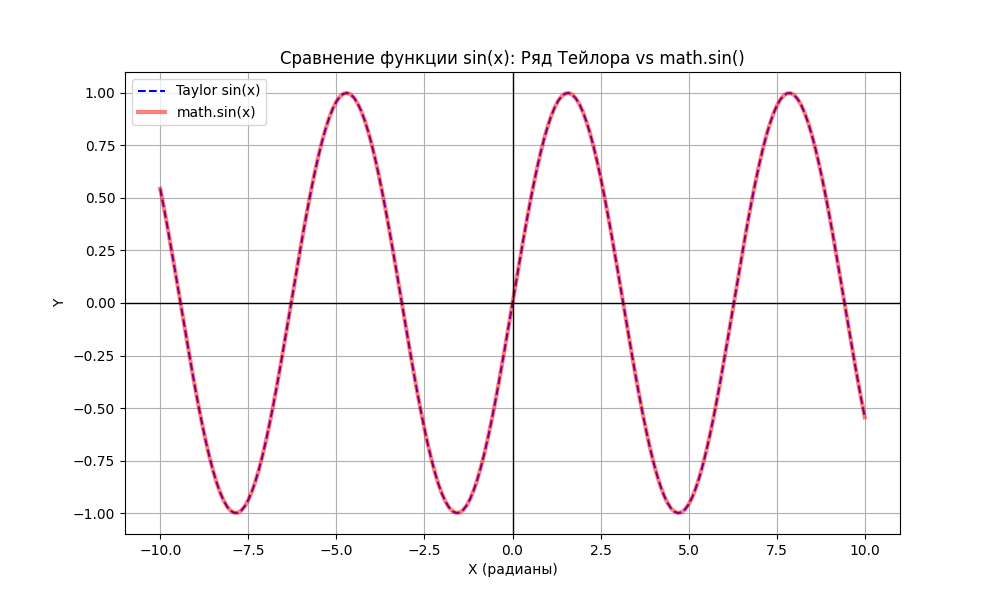
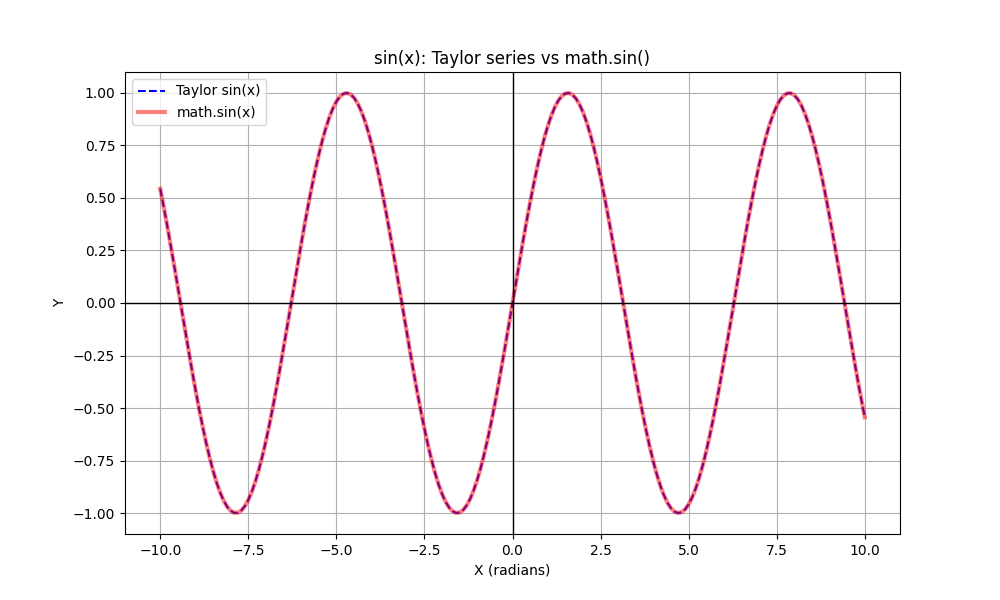
Task4

Changed region(s): [[0.279, 0.09, 0.744, 0.12], [0.465, 0.93, 0.558, 0.96]]

diff --git a/IGI/LR4/task4/geometry.py b/IGI/LR4/task4/geometry.py
@@ -1,0 +1,119 @@
+from abc import ABC, abstractmethod
+import math
+import matplotlib.pyplot as plt
+import matplotlib.patches as patches
+
+class GeometricFigure(ABC):
+    """
+    Abstract base class representing a geometric figure
+    Requires child classes to implement area calculation and drawing methods
+    """
+
+    @abstractmethod
+    def get_area(self):
+        """
+        Calculates and returns the area of the geometric figure
+        """
+        pass
+
+    @abstractmethod
+    def draw(self, label):
+        """
+        Draws the geometric figure on the screen
+        """
+        pass
+
+class ShapeColor:
+    """
+    Class representing the color of a figure
+    """
+
+    def __init__(self, color):
+        """
+        Initializes the ShapeColor
+        :param color
+        """
+        self._color = color
+
+    @property
+    def color(self):
+        """
+        Getter for the color property
+        :return: Color string
+        """
+        return self._color
+
+
+class InscribedSquare(GeometricFigure):
+    """
+    Class representing a square inscribed in a circle
+    """
+
+    figure_name = "Square inscribed in a circle"
+
+    def __init__(self, r, color):
+        """
+        Initializes the inscribed square
+        :param r: Radius
+        :param color: Color of the square.\
+        """
+        self._color = ShapeColor(color)
+        self._radius = r
+
+    def get_area(self):
+        """
+        Calculates the area of the inscribed square
+        :return: Area of the square.\
+        """
+        return 2 * self._radius * self._radius
+
+    def __str__(self):
+        """
+        Returns a formatted string representation of the object
+        :return: Formatted string with radius, color, and area
+        """
+        return "Inscribed Square (Radius: {}, Color: {}, Area: {})".format(
+            self._radius,
+            self._color.color,
+            self.get_area()
+        )
+
+    @classmethod
+    def get_name(cls):
+        """
+        Class method to get the name of the geometric figure
+        :return: Name of the figure.
+        """
+        return cls.figure_name
+
+    def draw(self, label):
+        """
+        Draws
+        :param label: Text label to display in the center of the figure.\
+        """
+        print(f"\n[Drawing figure: {self.get_name()}...]")
+        fig, ax = plt.subplots(figsize=(6, 6))
+
+        circle = plt.Circle((0, 0), self._radius, fill=False, edgecolor='black', linewidth=2)
+        ax.add_patch(circle)
+
+        side = self._radius * math.sqrt(2)
+        bottom_left_x = -side / 2
+        bottom_left_y = -side / 2
+
+        square = patches.Rectangle((bottom_left_x, bottom_left_y), side, side,
+                                   fill=True, color=self._color.color, alpha=0.5)
+        ax.add_patch(square)
+
+        plt.text(0, 0, label, fontsize=14, ha='center', va='center', color='black', weight='bold')
+
+        ax.set_xlim(-self._radius - 1, self._radius + 1)
+        ax.set_ylim(-self._radius - 1, self._radius + 1)
+        ax.set_aspect('equal')
+        plt.title(self.get_name())
+        plt.grid(True, linestyle=':', alpha=0.6)
+
+        filename = "task4_figure.png"
+        plt.savefig(filename)
+        print(f"Figure successfully saved to '{filename}'")
+        plt.show()

diff --git a/IGI/LR4/task3/task3.py b/IGI/LR4/task3/task3.py
@@ -1,8 +1,31 @@
 import math
-import statistics
 import matplotlib.pyplot as plt
+import numpy
 
-class TaylorSin:
+class LoggerMixin:
+    def log_action(self, action):
+        print(f"[LOG {self.__class__.__name__}] : {action}")
+
+class BaseSeriesCalculator:
+    def __init__(self, x, eps):
+        self.raw_x = x
+        self._eps = eps
+
+    @property
+    def eps(self):
+        return self._eps
+
+    @eps.setter
+    def eps(self,val):
+        if val <= 0:
+            raise ValueError("Epsilon must not be less or equal than zero")
+        self._eps = val
+
+    def calculate(self):
+        raise NotImplementedError("Method calculate must be in dauther class")
+
+
+class TaylorSin(BaseSeriesCalculator, LoggerMixin):
     """Class to calculate and analyze Taylor series for sin(x)"""
 
     def __init__(self, x, eps=1e-4, max_iter=500):
@@ -13,11 +36,23 @@ class TaylorSin:
         self.terms = []
         self.result = 0
         self.n_iterations = 0
+        self.dynamic_status = "Not calculated yet"
+
+    def __str__(self):
+        return f"Calculator TaylorSin (x={self.raw_x}, eps={self.eps})"
+
+    def __call__(self):
+        return self.calculate()
+
 
     def calculate(self):
         """
         Calculate sin(x)
         """
+        self.log_action("Start calculating Taylor series...")
+        self.dynamic_status = "Calculated"
+
+
         x = self.raw_x % (2 * math.pi)
         result = 0
         term = x
@@ -40,31 +75,35 @@ class TaylorSin:
         return self.result, self.n_iterations
 
     def get_statistics(self):
-        """
-        Draw graph
-        """
         if not self.terms:
             return None
 
+        arr = numpy.array(self.terms)
+
         stats = {
-            'mean': statistics.mean(self.terms), # среднее арифмическое
-            'median': statistics.median(self.terms),
-            'variance': statistics.pvariance(self.terms) # дисперсия
-                if len(self.terms) > 1
-                else 0,
-            'stdev': statistics.pstdev(self.terms) # cреднеквадратическое отклонение
-                if len(self.terms) > 1
-                else 0
+            'mean': numpy.mean(arr),        # cреднее арифметическое
+            'median': numpy.median(arr),    # медиана
+            'variance': numpy.var(arr),     # дисперсия
+            'stdev': numpy.std(arr)         # СКО (Стандартное отклонение)
         }
 
-        try:
-            stats['mode'] = statistics.mode(self.terms)
-        except statistics.StatisticsError:
-            stats['mode'] = "No unique mode"
+        unique_vals, counts = numpy.unique(arr, return_counts=True)
+        max_count = numpy.max(counts)
+
+
+        if max_count > 1:
+            modes = unique_vals[counts == max_count]
+            stats['mode'] = modes[0] if len(modes) == 1 else list(modes)
+        else:
+            stats['mode'] = "No mode"
 
         return stats
 
     def plot_graph(self):
+        """
+        Draw graph
+        :return:
+        """
         # from -10 to 10 с step 0.1
         x_values = [x / 10.0 for x in range(-100, 101)]
         y_taylor = []

diff --git a/IGI/LR4/main.py b/IGI/LR4/main.py
@@ -4,7 +4,7 @@ from Services.input_output import get_natural_input, get_int_input, get_float_in
 from task2.text_analizer import TextAnalyzer
 from task2.file_manager import save_analysis_result, create_archive
 from task3.task3 import TaylorSin, math_sin
-
+from task4.geometry import InscribedSquare
 
 
 def run_task1():
@@ -120,6 +120,25 @@ def run_task3():
 
     calculator.plot_graph()
 
+def run_task4():
+    print("\n--- Task 4 ---")
+
+    try:
+        radius = get_float_input("Enter floating number:")
+
+        color = input("Enter the color of the square (e.g., red, blue, green): ")
+        text_label = input("Enter text label for the center of the figure: ")
+    except ValueError:
+        print("Error: Radius must be a valid number!")
+        return
+
+    my_square = InscribedSquare(radius, color)
+
+    print("\nObject created successfully:")
+    print(my_square)
+
+    my_square.draw(text_label)
+
 def main():
     while True:
         print("\n=== Laboratory Work №4 ===")
@@ -140,8 +159,7 @@ def main():
         elif cmd == 3:
             run_task3()
         elif cmd == 4:
-            #run_task4()
-            pass
+            run_task4()
         elif cmd == 5:
             #run_task5()
             pass
